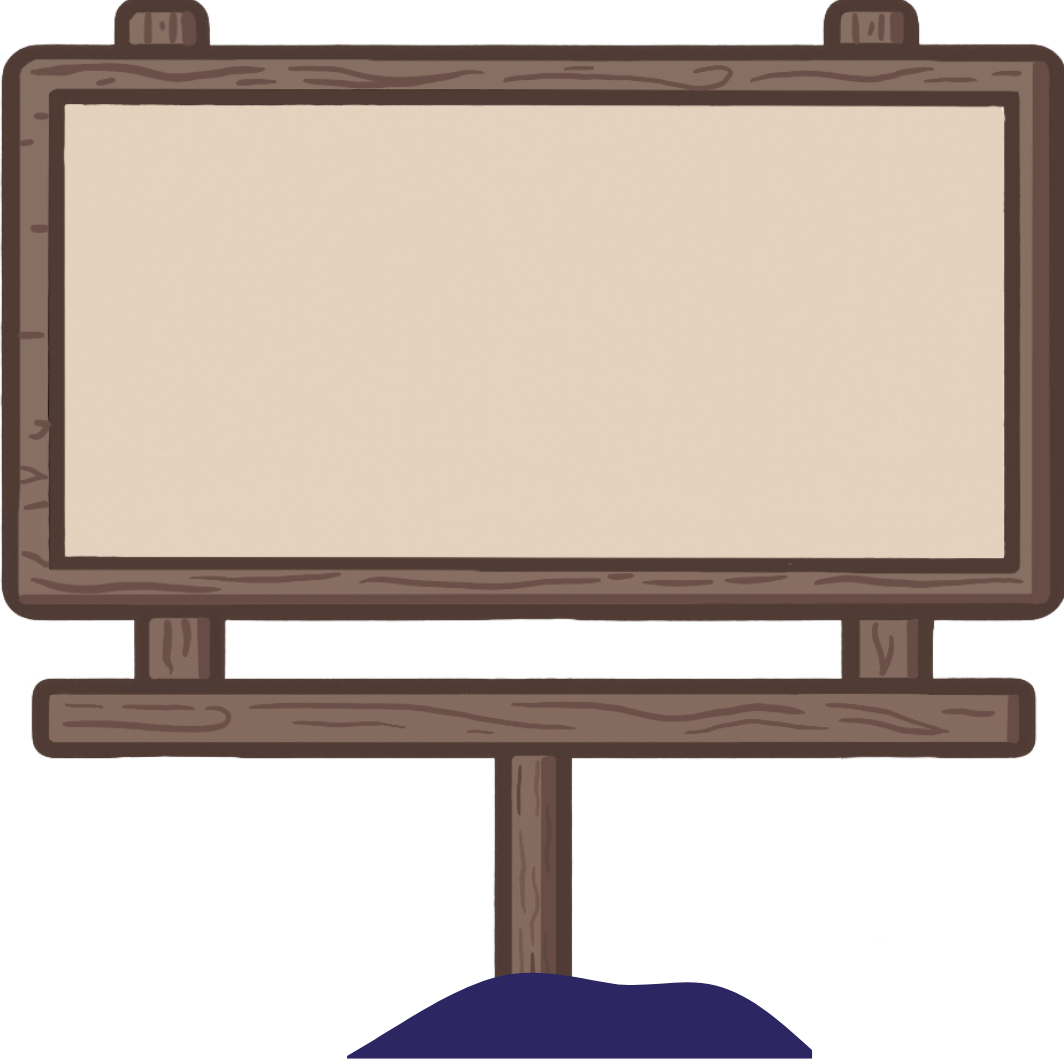
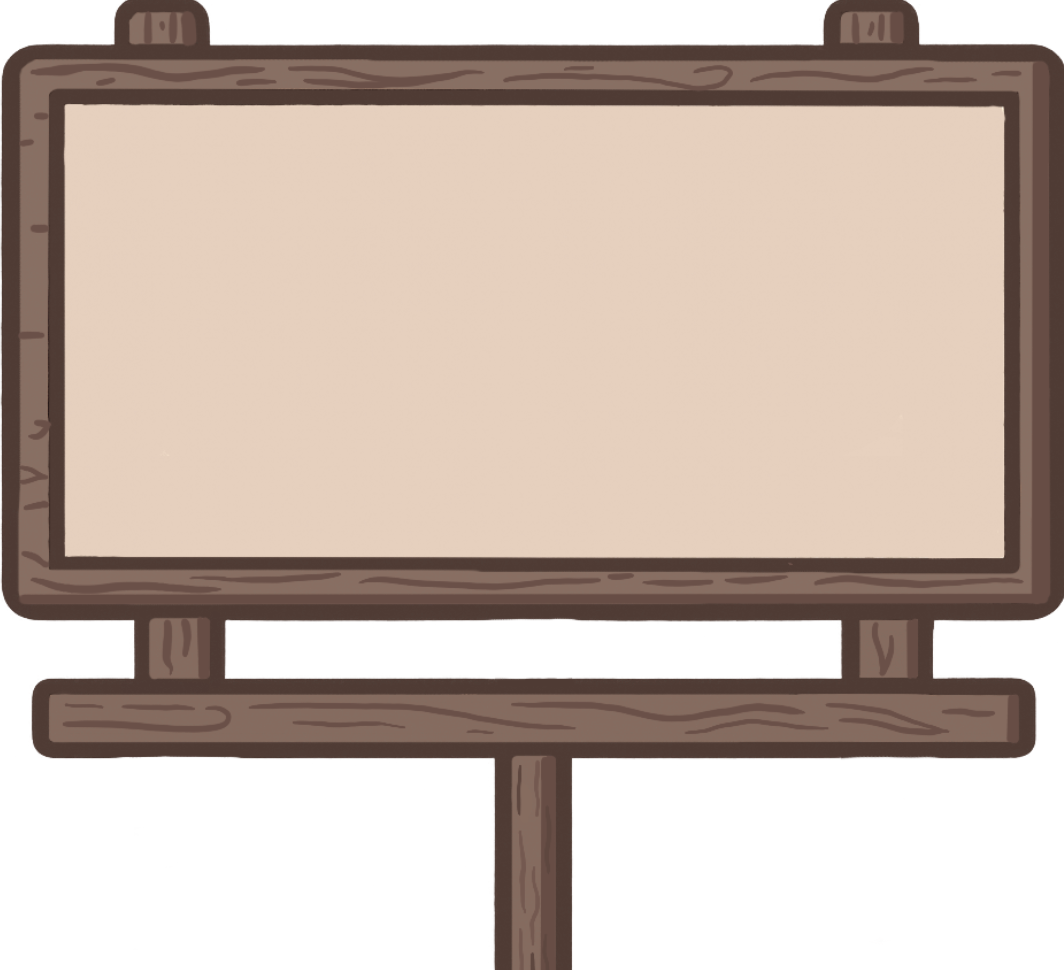
presented by swivel

diff --git a/apps/web/src/components/landing/Hero.tsx b/apps/web/src/components/landing/Hero.tsx
@@ -64,6 +64,47 @@ export default function Hero() {
 									height={1000}
 									unoptimized={true}
 								/>
+								<div
+									className="
+										absolute bottom-[20%] right-[2.5%] w-[400px] h-[400px] rotate-6 p-5
+										sm:bottom-[20%] sm:right-[2.5%]
+										md:bottom-[20%] md:right-[2.5%]
+										lg:bottom-[20%] lg:right-[2.5%]
+										/* mobile overrides */
+										max-md:inset-0 max-md:m-auto max-md:rotate-0 max-md:w-[250px] max-md:h-[250px] max-md:p-0 max-md:translate-y-[-60%]
+									"
+								>
+									<Image
+										className="absolute inset-0 z-20 w-full h-full object-contain"
+										src="/img/work/billboard_new.png"
+										alt="Sign"
+										width={400}
+										height={400}
+										unoptimized
+									/>
+									<Image
+										className="absolute bottom-[-20%] right-[27%] z-20 w-[50%] h-[50%] -rotate-6"
+										src="/img/hero/rock.png"
+										alt="rock"
+										width={100}
+										height={100}
+										unoptimized
+									/>
+									<div className="mt-8 relative flex flex-col items-center justify-center p-5">
+										<h1 className="z-30 text-center font-texas-tango text-black text-[1.5rem] md:text-[2rem]">
+											Presented By
+										</h1>
+										<Image
+											src={`img/sponsors/swivel.svg`}
+											alt={"Swivel Logo"}
+											width={200}
+											height={200}
+											className="mt-2 w-auto h-auto object-contain z-30"
+											unoptimized
+										/>
+									</div>
+								</div>
+
 								<Image
 									className="absolute bottom-[20%] left-[20%] z-20 w-[100px]"
 									src={"/img/hero/tumbleweed.svg"}
@@ -80,6 +121,7 @@ export default function Hero() {
 									height={80}
 									unoptimized={true}
 								/>
+
 							</motion.div>
 							<motion.div
 								className="absolute right-[10%] top-[10%] z-20 w-[120px]"
@@ -149,6 +191,7 @@ export default function Hero() {
 										height={1000}
 										unoptimized={true}
 									/>
+
 								</div>
 							</motion.div>
 						</div>
